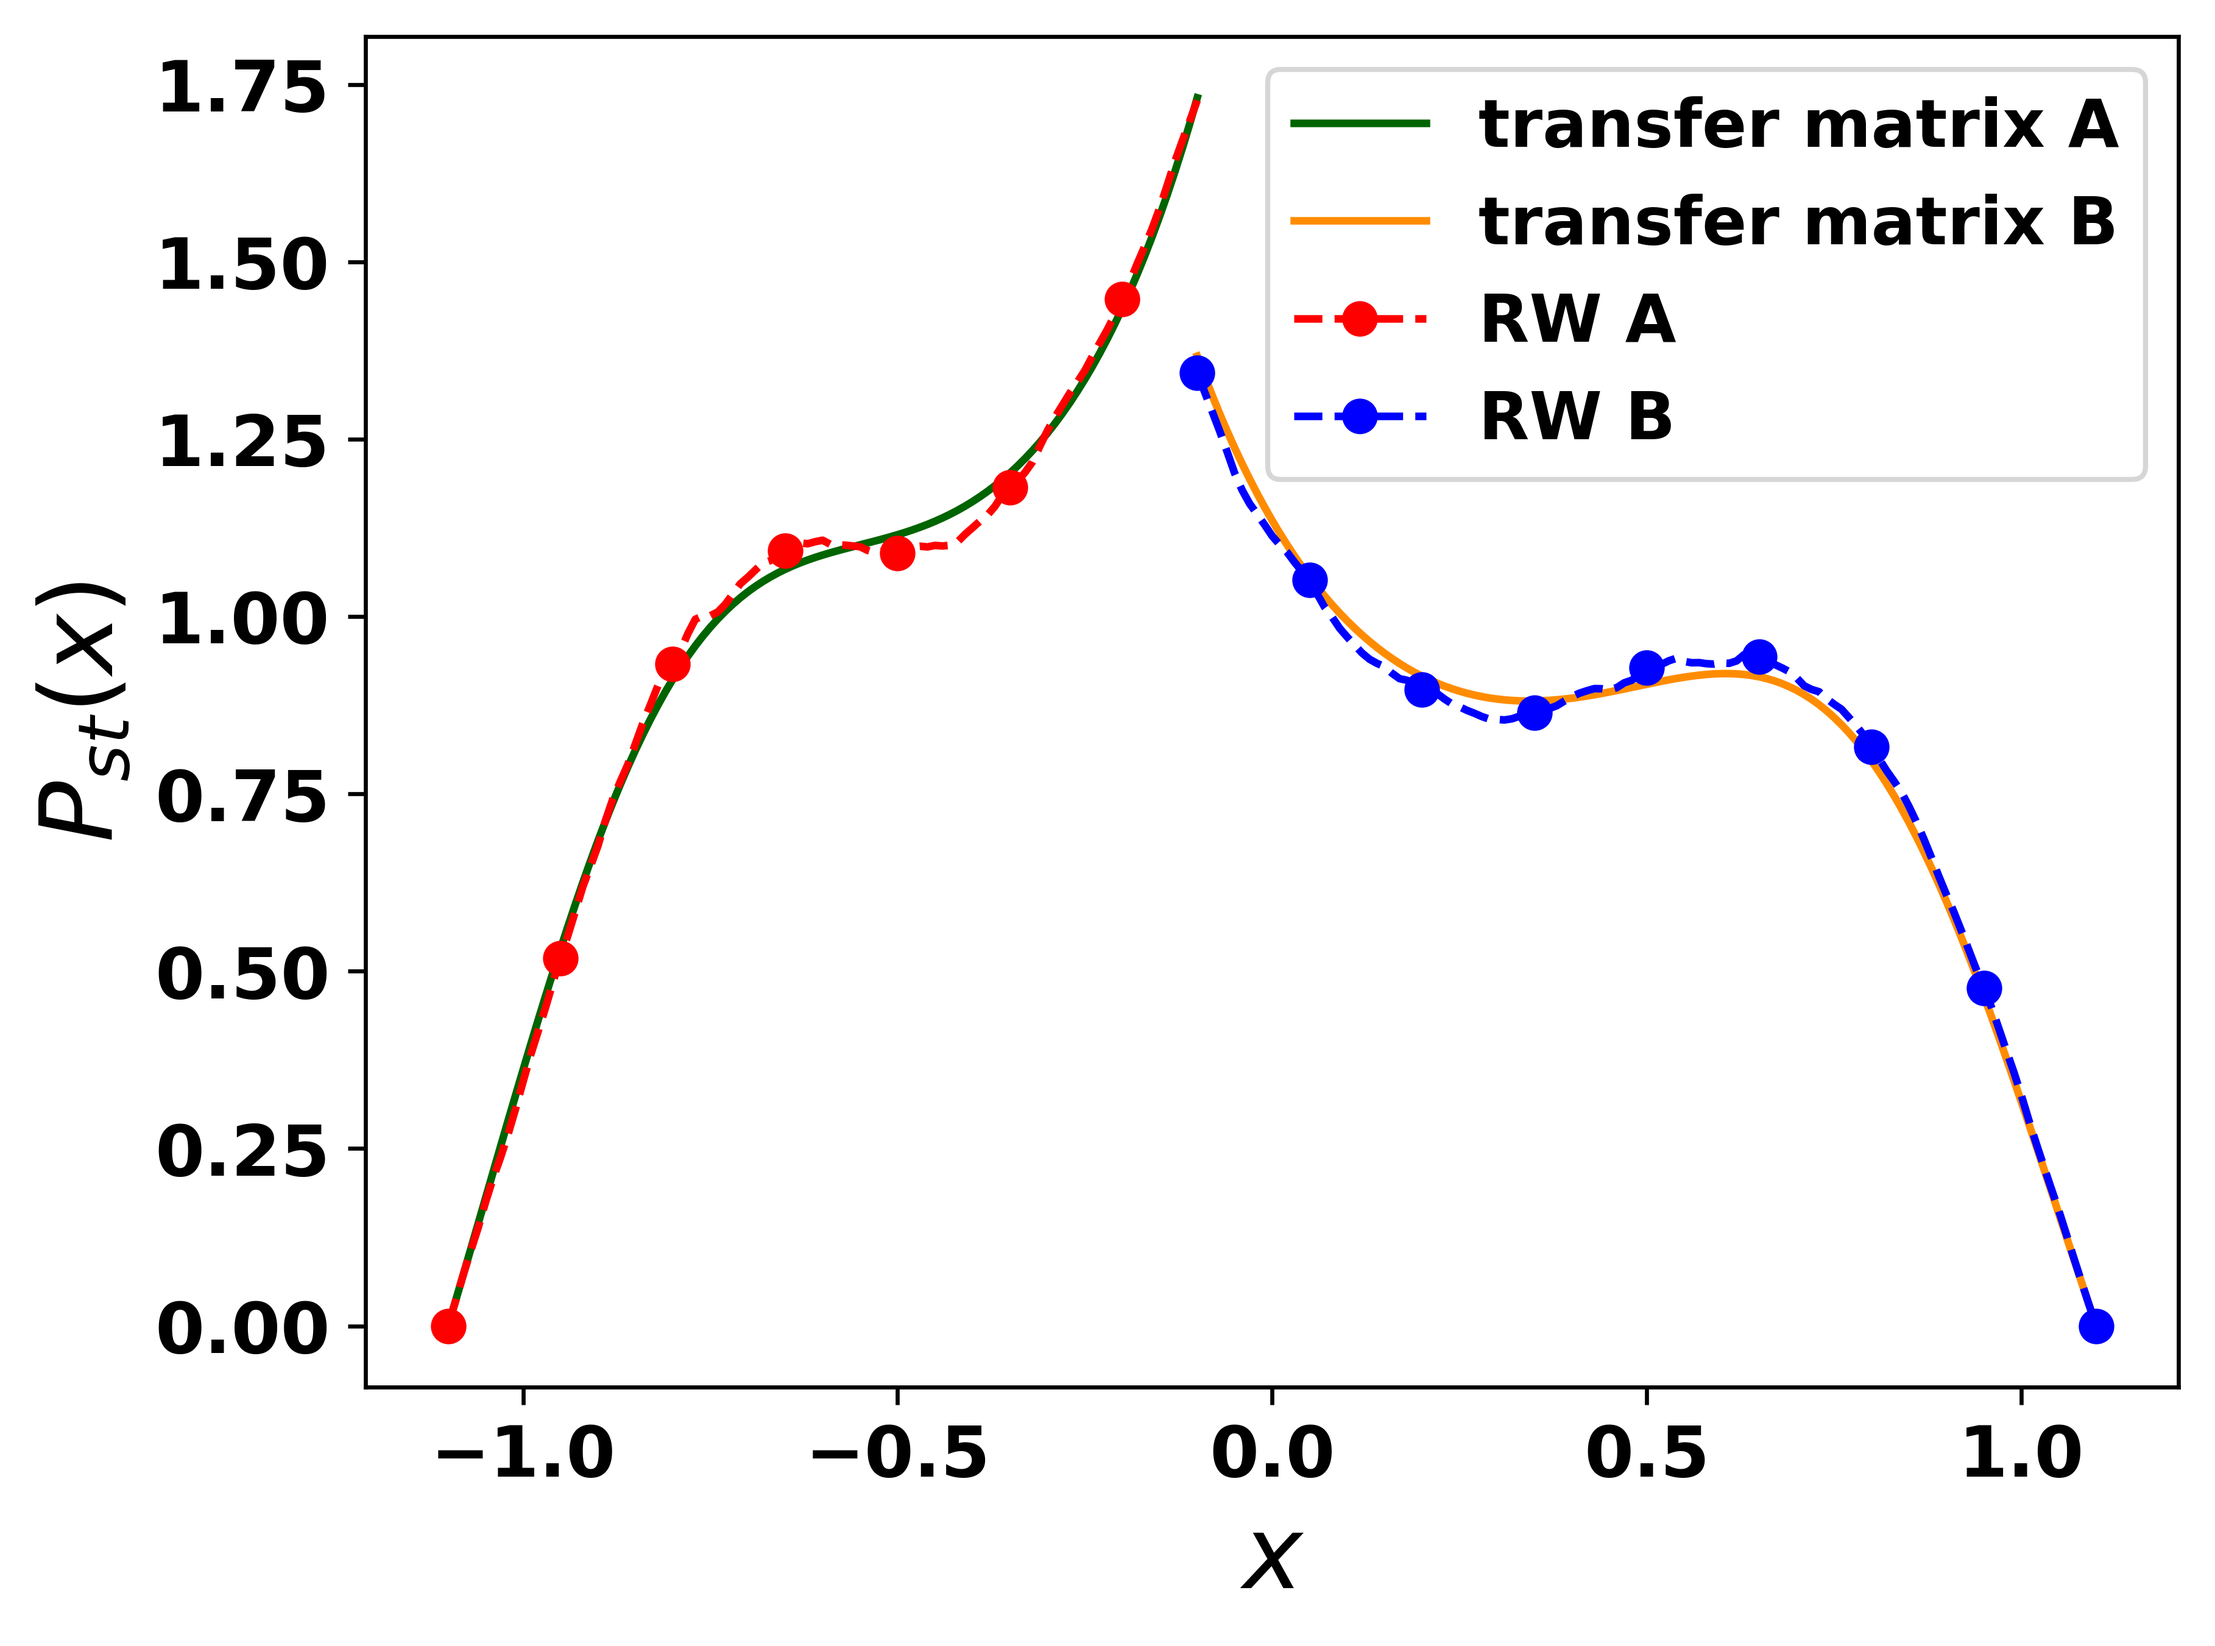
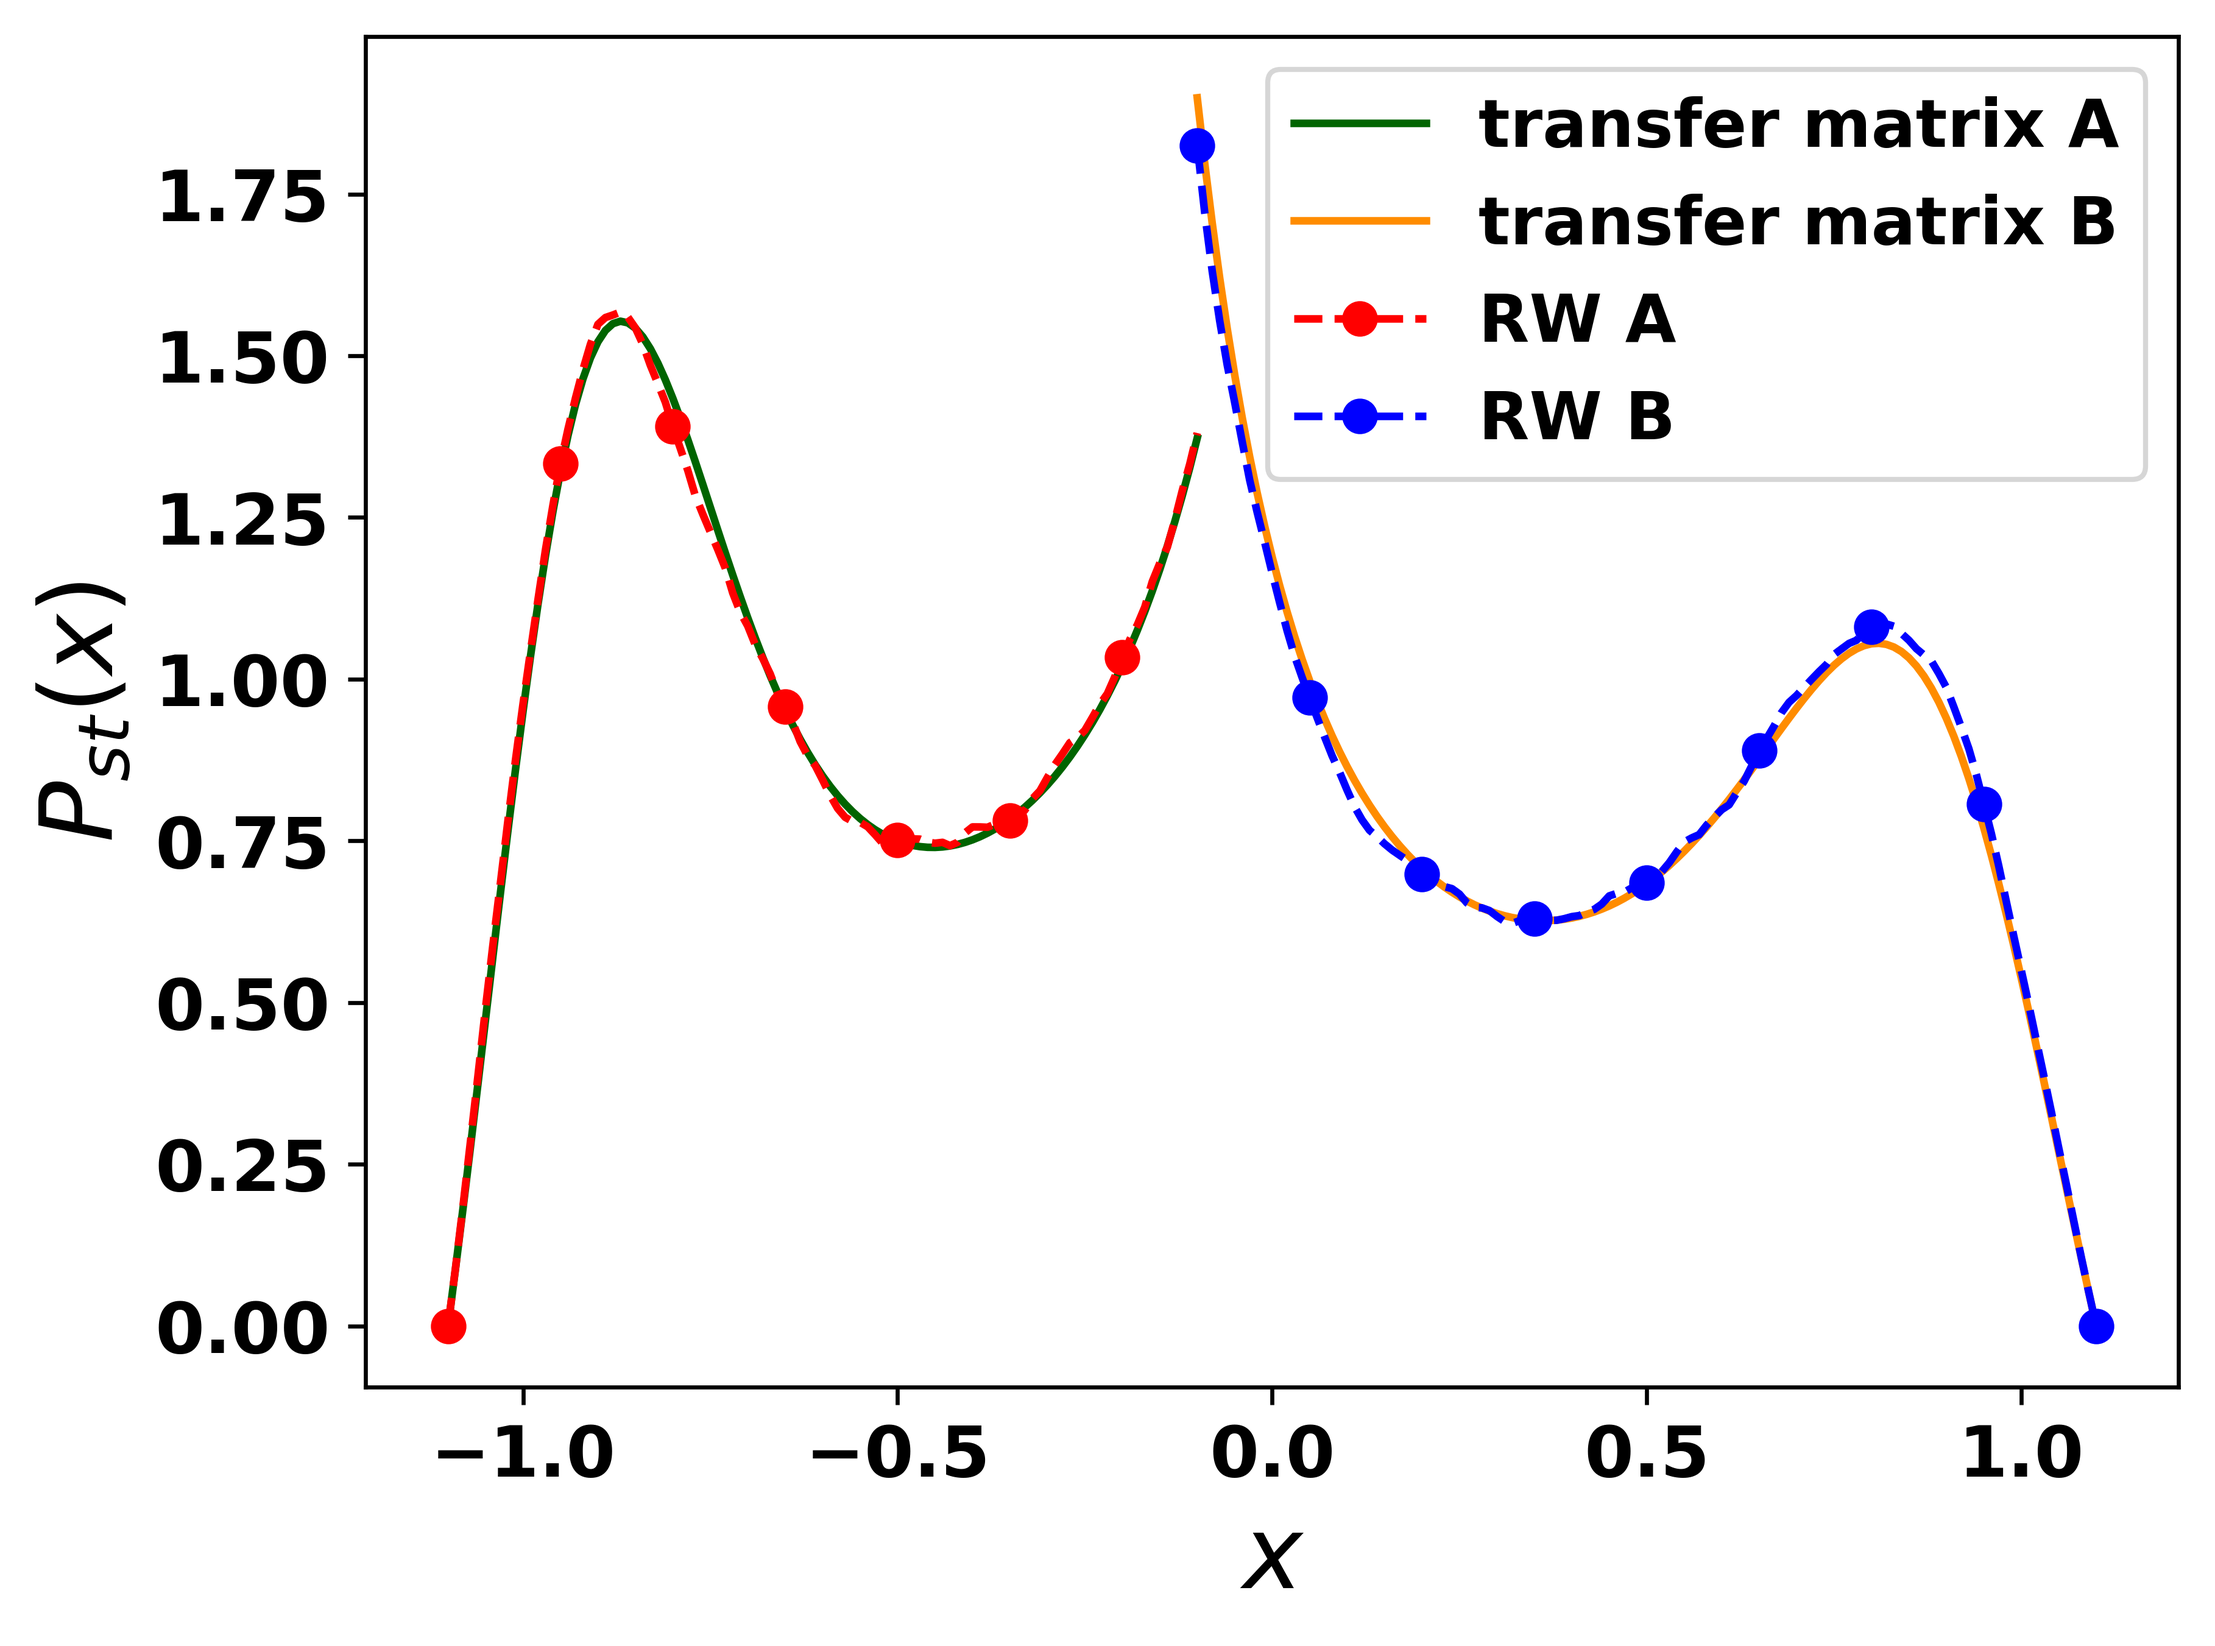
Add plot script and nicer plots for frugal top-start method (medium barrier RW)

diff --git a/Top_start_method/Random_walk_Model/Frugal_verison/frugal_top_start_reconst_plot.py b/Top_start_method/Random_walk_Model/Frugal_verison/frugal_top_start_reconst_plot.py
@@ -5,8 +5,8 @@ from scipy.integrate import quad
 from scipy.interpolate import interp1d, PchipInterpolator, CubicSpline
 
 # Define the double-well potential using two Gaussian functions
-def double_gaussian_potential(x, A1=3, mu1=-1, sigma1=0.5, A2=4, mu2=1, sigma2=0.6):
-# def double_gaussian_potential(x, A1=12, mu1=-1, sigma1=0.5, A2=10, mu2=1, sigma2=0.6):
+# def double_gaussian_potential(x, A1=3, mu1=-1, sigma1=0.5, A2=4, mu2=1, sigma2=0.6):
+def double_gaussian_potential(x, A1=12, mu1=-1, sigma1=0.5, A2=10, mu2=1, sigma2=0.6):
 # def double_gaussian_potential(x, A1=30, mu1=-1, sigma1=0.5, A2=25, mu2=1, sigma2=0.6):
     V1 = A1 * np.exp(-((x - mu1)**2) / (2 * sigma1**2))
     V2 = A2 * np.exp(-((x - mu2)**2) / (2 * sigma2**2))
